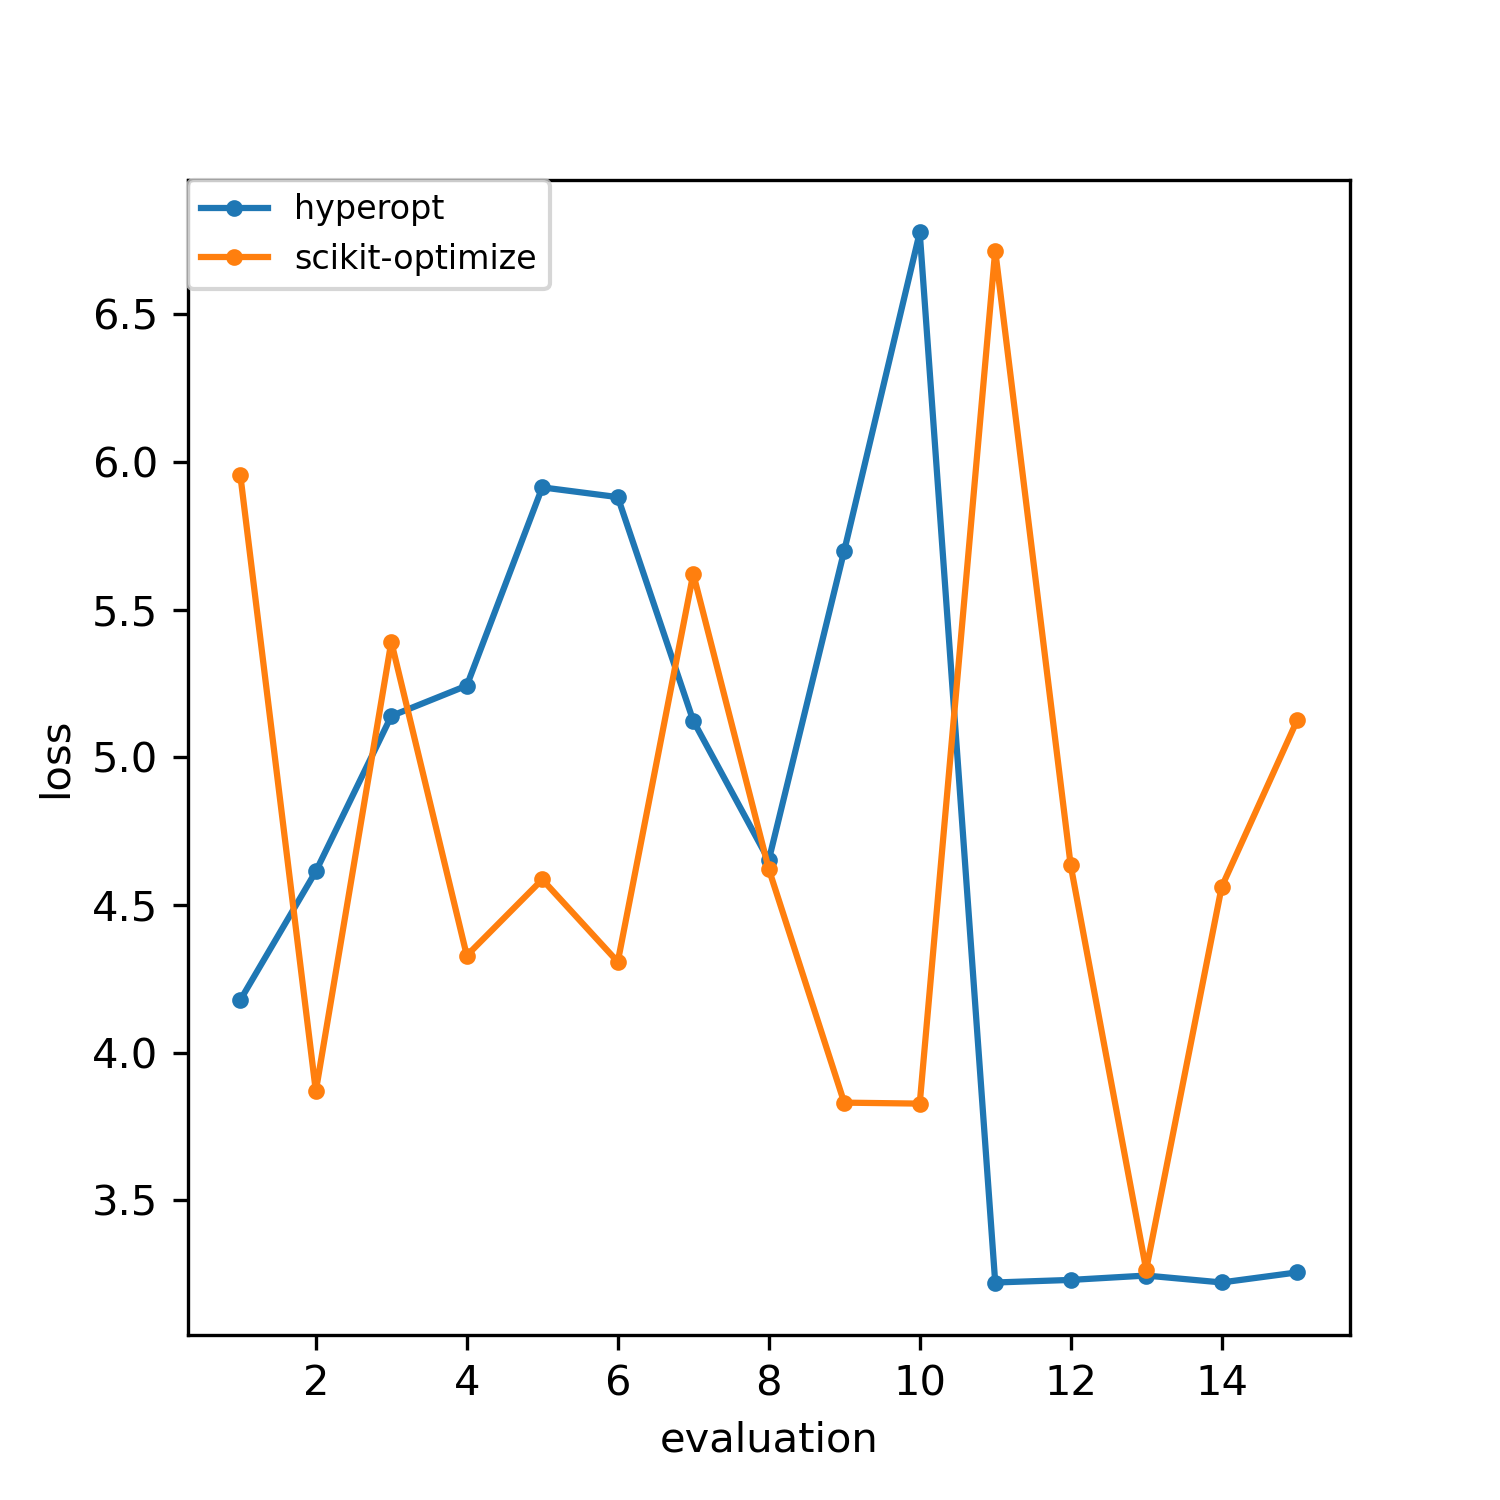
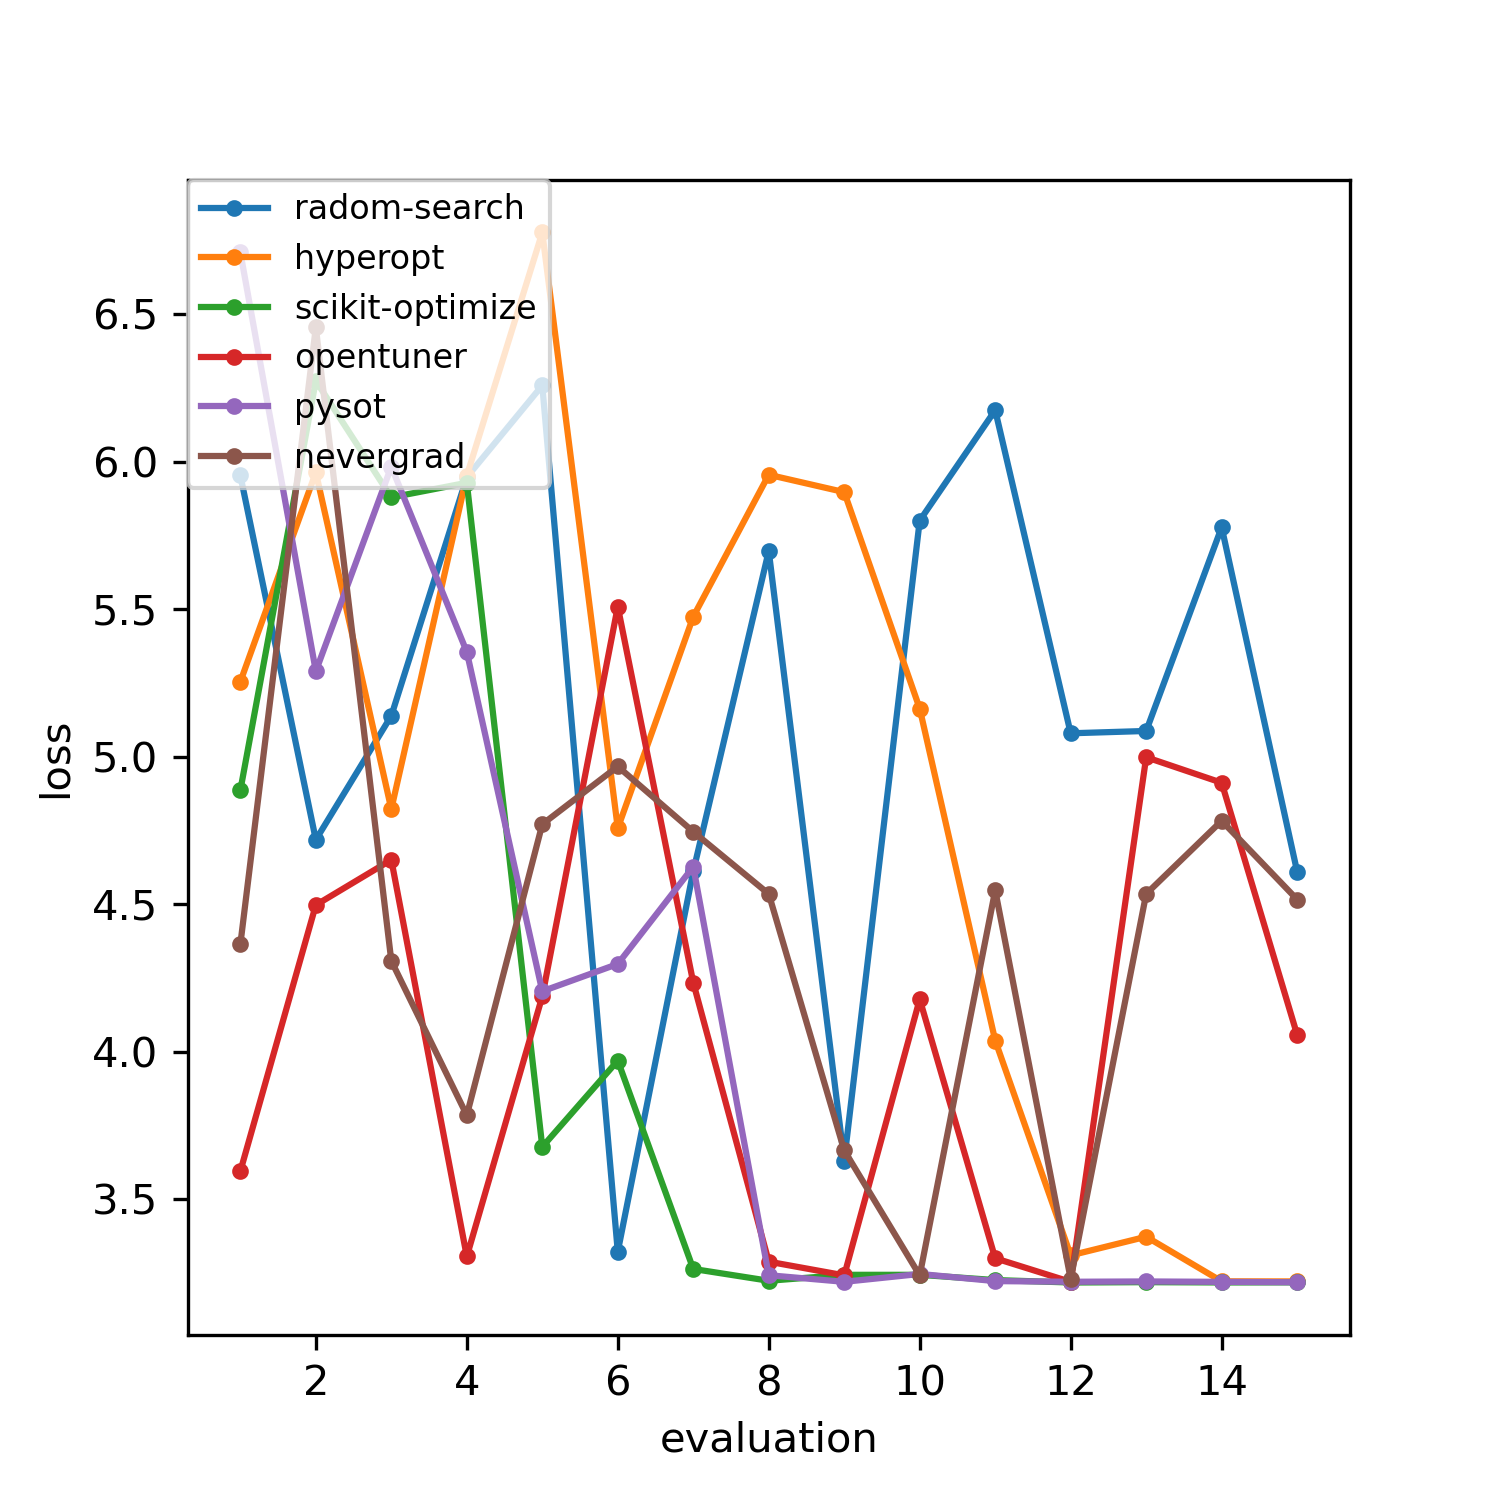
bugs fix

Changed region(s): [[0.1227, 0.1227, 0.8893, 0.8587], [0.7973, 0.3373, 0.828, 0.3987], [0.8587, 0.6747, 0.8893, 0.7053]]

diff --git a/bbomark/optimizers/feature_space.py b/bbomark/optimizers/feature_space.py
@@ -6,7 +6,10 @@ from bbomark.core.abstract_feature_space import (
     AbstractFeatureSpace,
     Identity,
     Ord2Uniform,
-    Cat2Onehot
+    Cat2Onehot,
+    U2gaussian,
+    Category,
+    Ordinal
 )
 
 class FeatureSpace_pysot(AbstractFeatureSpace):

diff --git a/README.md b/README.md
@@ -58,6 +58,6 @@ python ./bbomark/demo.py -c lasso -d boston -o HyperOpt Scikit-GP-LCB -u a98ee59
 
 - [ ] Transfer
 - [ ] Parallelizing
-- [ ] Result visualize
+- [x] Result visualize
 - [ ] Reproductable ( Random state )
 - [ ] Extract data and model
